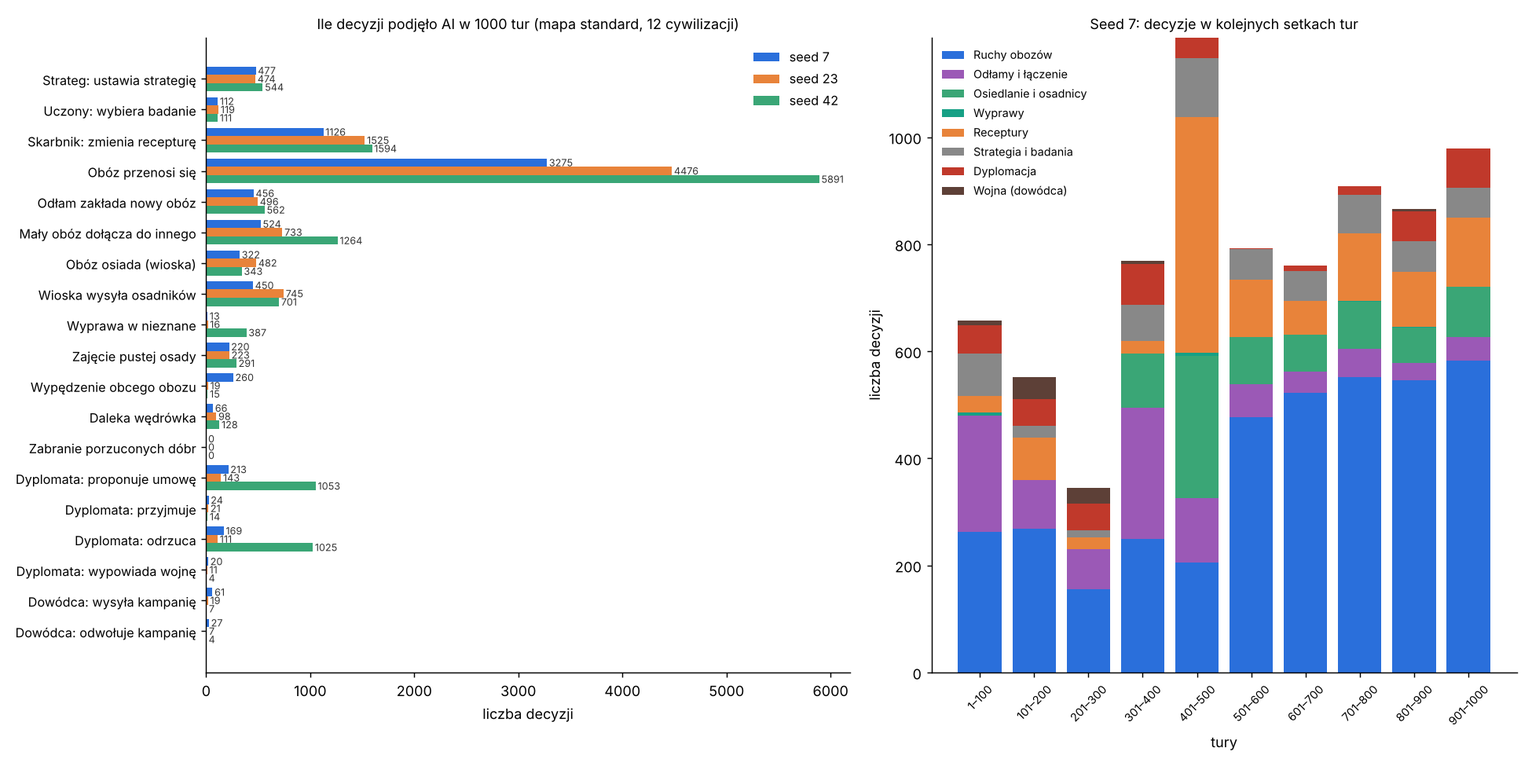
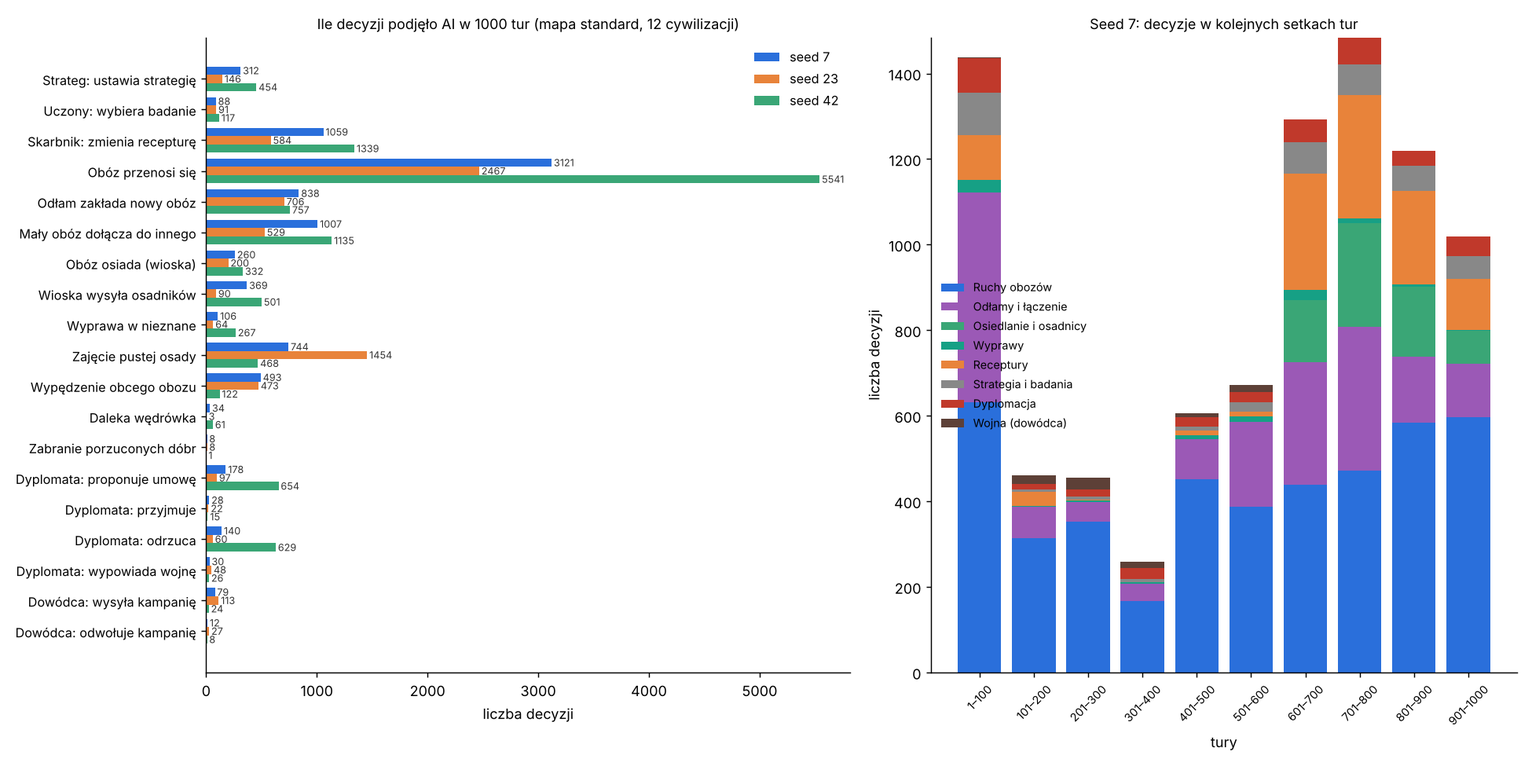
Stage 4f PR 1: docs, statistics, roadmap
ADR 0023, docs/systems/governments.md, the stage 4f plan, roadmap,
and docs/ai: government in the strategist, the pick, the diplomat and
the commander, parameters, assessment (revenge loop), statistics and
the decisions chart from 3 seeds.

Claude-Session: https://claude.ai/code/session_0138krcAfa8sT5jZ3xENZWS8

diff --git a/docs/ai/README.md b/docs/ai/README.md
@@ -4,7 +4,7 @@ Ten katalog opisuje **każdą decyzję**, którą podejmuje sztuczna inteligencj
 na podstawie jakich danych, według jakiego wzoru, z jakimi progami i gdzie to jest w kodzie. Jest pisany dla Patryka:
 żeby można było ocenić, czy mechanika nie jest za prosta albo za skomplikowana i bez sensu.
 
-**Stan opisu:** etap 4d + zegar świata (ADR 0018) + wartości i priorytety (PR B, ADR 0019) + ziemia i migracje (PR C) + fachy, ludzie i demografia (cały etap 4F) + wojna z celem i pokój z warunkami (etap 4e PR 1) + epizody i pierwszy dowódca (etap 4e PR 2) + armie z wielu osad, uzbrojenie i zaopatrzenie (etap 4e PR 3) + bitwy w rundach (etap 4e PR 4) + dowódca, który rozgrywa bitwę w głowie i co miesiąc patrzy jeszcze raz (etap 4e PR 5) + strojenie wojny (etap 4e PR 6, gałąź `feat/war-tuning`).
+**Stan opisu:** etap 4d + zegar świata (ADR 0018) + wartości i priorytety (PR B, ADR 0019) + ziemia i migracje (PR C) + fachy, ludzie i demografia (cały etap 4F) + wojna z celem i pokój z warunkami (etap 4e PR 1) + epizody i pierwszy dowódca (etap 4e PR 2) + armie z wielu osad, uzbrojenie i zaopatrzenie (etap 4e PR 3) + bitwy w rundach (etap 4e PR 4) + dowódca, który rozgrywa bitwę w głowie i co miesiąc patrzy jeszcze raz (etap 4e PR 5) + strojenie wojny (etap 4e PR 6) + ustroje (etap 4f PR 1, gałąź `feat/state-governments`).
 **Aktualizacja:** po każdym etapie, który zmienia AI (zasada w `CLAUDE.md`). Historia zmian jest na dole tej strony.
 
 ## Jak czytać
@@ -129,6 +129,7 @@ w `docs/systems/`:
 | 2026-11-06 | zegar (ADR 0018) | Rytm każdej cywilizacji: decyzje proaktywne we własnym kroku, reaktywne (alarmy wojny i napadu, propozycje, wybór badania) w każdym kroku świata; nowe reakcje D2 i G2; odstępy AI w własnych krokach (`reviewEverySteps`, `searchEverySteps`, `minStepsBetweenMoves`); zwiad, widzenie i pogłoski w własnym kroku; nowe statystyki, wykres rytmów i ludności przed/po. |
 | 2026-11-06 | wartości (PR B, ADR 0019) | Uczony od nowa (priorytet z położenia, braków i charakteru, koszt jako przeszkoda łagodzona ciekawością); skarbnik: cele towarów, koordynacja sieci, koniec przełączania „praca ↔ brak”, premia za handel; strateg: wagi nauki i wpływu; „zostać” z połową wagi ekspansji; obce obozy i wojownicy tylko z pól widzianych teraz; 11 liczb z kodu do `data/ai.json` (sekcja `scholar`); test martwych wartości; nowe statystyki z 3 seedów, wykresy decyzji i „przed/po”. |
 | 2026-11-06 | ziemia i migracje (PR C) | Gubernator wycenia ziemię z technologiami zbierania cywilizacji, rybacy liczą wodę; G4 osiedlenie dla prawdziwej liczby producentów i w porównaniu ze zbieractwem i ekspansywnością (`settleOverGatheringPercent`); nowe decyzje G7 (wioska wysyła osadników) i G8 (wyprawa w nieznane); osadnicy omijają strefy własnych osad; zwiad i marsz na stulecie (`data/perception.json`); nowe parametry w `data/ai.json`; punkty 4, 5, 6 i 8 oceny zamknięte, nowy punkt 10 (wydajność); statystyki z 3 seedów, wykres ziemi i migracji, wykres decyzji z G7 i G8. |
+| 2026-11-07 | ustroje (etap 4f, PR 1) | Ustrój z `data/governments.json` (rada starszych, wodzostwo; despotia i republika miejska od brązu) przechyla wagi celów stratega (S1), przesuwa ostrożność w wyborze opcji (wszyscy doradcy), zmienia tempo przeglądów stratega i dyplomaty i opóźnia decyzje państwowe: armie wypowiadającego wojnę ruszają po `enactYears` (K1), w czasie zmiany ustroju bez wypowiedzeń (D2). Nowe parametry w `07-parametry.md`, ocena i pętla odwetu w `08` (pkt 14), statystyki i wykres decyzji z 3 seedów. |
 | 2026-11-07 | strojenie wojny (etap 4e, PR 6) | K1: dowódca liczy jedzenie okolicy (osady do 12 pól od domu i od celu) na całą wyprawę. D1/D2: nowy czynnik „wynik wojny” (krzywa `warScore`: przegrywający chce pokoju), `peaceOpinion` przy −100 daje 0,5, odrzucony pokój wraca po roku (`peaceRetryYears`). Reguły zaopatrzenia: tragarze z osady z największym zapasem, szybsi i wcześniej, armia przy zbiórce je w domu. Statystyki i długi przebieg w `09-statystyki.md`. |
 | 2026-11-07 | dowódca (etap 4e, PR 5) | K1: spodziewana bitwa bez losowania (25 bitew w głowie, `Battles.Expect`) z tego, co widać, próg szansy 60% i strat 50%, jedzenie na marsz poza zasięgiem tragarzy tam i z powrotem; nowa decyzja K2: odwołanie kampanii co miesiąc (szansa poniżej 45% albo brak jedzenia na drogę); armia atakuje miesiąc po dojściu do celu; nowe czynniki `expected losses`, `cells beyond supply`; sekcja `commander` w `data/ai.json` (próg szansy i jedzenia przeniesione z `war.json`); sytuacja wojny w `DeadValueTests`. Statystyki w `09-statystyki.md`. |
 | 2026-11-07 | bitwy w rundach (etap 4e, PR 4) | Dowódca (K1) liczy szansę z premią terenu celu; na miejscu armia liczy ją jeszcze raz z rzeką i głodem. Bitwa sama jest regułą systemu (nie decyzją AI). Statystyki bitew w `09-statystyki.md`. |

diff --git a/docs/decisions/0023-ustroje.md b/docs/decisions/0023-ustroje.md
@@ -1,0 +1,48 @@
+# ADR 0023: Ustroje w danych, tytuł w nazwie i opóźnienie decyzji państwowych
+
+**Status:** proponowana, 2026-11-07 (PR 1 etapu 4f, według rekomendacji z dokumentu „Etap 4f: państwo — propozycja”; czeka na decyzje
+Patryka, zwłaszcza pytania 3 i 7, które zmieniają GDD 7.2). Zasady w GDD 7.2, 5.6 i 16.
+
+## Kontekst
+
+Cywilizacje nie miały ustroju. GDD 7.2 wymaga, żeby ustrój zmieniał tempo decyzji (opóźnienie wdrożenia i częstotliwość pracy
+doradców), impulsywność AI, sposób sukcesji, zdolność administracyjną i stabilność, a nazwa cywilizacji niosła tytuł ustroju
+(„Chiefdom of Karrut”). GDD 16 każe zrobić 3–4 ustroje z er 1–3, a napięcie społeczne wchłonąć w stabilność.
+
+## Decyzja
+
+- **Ustroje w danych:** `data/governments.json`, wczytywane i sprawdzane przy starcie (`ContentLoader.LoadGovernments`). Nowy ustrój
+  w kolejnych erach to tylko wpis w pliku. Dziś: rada starszych i wodzostwo (od epoki kamienia), despotia i republika miejska
+  (od epoki brązu, czyli od etapu 6).
+- **Stan:** `CivilizationState.Government` (indeks w danych) i zmiana w toku (`PendingGovernment`, `PendingGovernmentMonth`).
+  Zapis w formacie 26, hash, protokół w wersji 10 (tytuł i ustrój dla obserwatora).
+- **Start:** każdy lud dostaje ustrój, do którego ciągnie jego charakter: suma cecha × skłonność (`leaning`) z danych, remis wygrywa
+  pierwszy w pliku. Bez losowania, więc nic nie przesuwa strumieni.
+- **Tytuł:** `Governments.Title` składa wzór z danych z rdzeniem nazwy ludu. Rdzeń (`CivilizationState.Name`) się nie zmienia, więc
+  kronika dalej mówi „Karrut”; tytuł pokazują podgląd i raporty.
+- **Opóźnienie wdrożenia w latach** (`enactYears`), nie w turach: tura epoki kamienia trwa 50 lat, więc „4 tury” z GDD to 200 lat.
+  Działa na dwie decyzje państwowe, które dziś istnieją:
+  - **zmiana ustroju** (`ChangeGovernmentCommand`): nowy ustrój wchodzi po opóźnieniu obecnego (`GovernmentSystem` w fazie
+    State); do tego czasu cywilizacja nie wypowiada wojen ani nie zaczyna drugiej zmiany;
+  - **wypowiedzenie wojny** (`DeclareWarCommand`): wojna zaczyna się od razu (ofiara wie i może się bronić), ale armie strony,
+    która ją wypowiedziała, ruszają dopiero od `Treaty.ReadyMonth`. Zegar świata robi krok w tym miesiącu, a dowódca wtedy
+    planuje wyprawę. Cicha wojna (5 lat bez kampanii) liczy się od gotowości, nie od wypowiedzenia.
+- **Tempo AI:** `reviewPercent` skraca albo wydłuża odstęp przeglądów stratega i dyplomaty; `cautionShift` przesuwa ostrożność,
+  z którą AI bierze najlepszą opcję wprost (rada spokojniejsza, despotia bardziej impulsywna); `goalPercent` mnoży wagi celów
+  stratega (wodzostwo: ekspansja i podbój ×1,2).
+- **Później w etapie 4f:** stabilność, wpływ warstw, administracja i sukcesja (PR 2–4) dopiszą kolejne pola do tego samego pliku;
+  wybór ustroju przez stratega i zmiana po buncie (PR 4–5).
+
+## Rozważane alternatywy
+
+- **Ustroje w kodzie** (`enum` z wartościami): szybciej, ale łamie zasadę „zawartość w danych” i blokuje ustroje kolejnych er.
+- **Opóźnienie w turach** (jak w GDD): w erach 1–2 decyzja czekałaby 50–200 lat.
+- **Wojna wchodzi w życie dopiero po opóźnieniu** (najpierw zapowiedź): uczciwsze dla ofiary, ale potrzebuje nowego stanu
+  „zapowiedzianej wojny” w dyplomacji; obecne rozwiązanie daje ofierze ten sam czas na przygotowanie.
+- **Tytuł zapisany w stanie:** prościej czytać, ale tytuł trzeba by zmieniać przy każdej zmianie nazwy i ustroju.
+
+## Konsekwencje
+
+- Hash gry się zmienia (inne wagi celów, ostrożność i rytm przeglądów); test determinizmu i złoty hash świata zaktualizowane.
+- Nowe ustroje nie wymagają kodu; nowe skutki ustroju (stabilność, administracja) wymagają kodu raz, w PR 2–4.
+- Despotia i republika miejska czekają na technologie epoki brązu; sprawdzają je testy.

diff --git a/ROADMAP.md b/ROADMAP.md
@@ -135,7 +135,7 @@ strateg: waga nauki i wpływu; obce obozy tylko z pól widzianych teraz; liczby 
 osiedlenie porównane ze zbieractwem i ekspansywnością; wioska wysyła osadników, gdy jest pełna albo ma wyjałowione pola; wyprawy w nieznane
 dla ciekawych i ekspansywnych; zwiadowcy i marsz na stulecie; kolumny `settlements` i `spread_cells` w statystykach Headless).
 
-Gotowe też: **etap 4F** (ludzie i fachy, niżej, decyzja Patryka z 2026-11-06: przed wojną). Teraz: **4e** wojna (niżej, decyzje z 2026-11-07), potem **D** odłamy jako nowe cywilizacje w 4f.
+Gotowe też: **etap 4F** (ludzie i fachy, niżej, decyzja Patryka z 2026-11-06: przed wojną) i **4e** wojna (niżej, decyzje z 2026-11-07). Teraz: **4f** państwo (niżej), potem **4g** (100 gier i raport), a dopiero potem nowe ery (decyzja Patryka z 2026-11-07).
 Przeprowadzka całej wioski (z planu C) jeszcze nie: czeka na koszt porzucanych pól i budynków (etap budowli).
 
 - [ ] Doradcy: strateg, dyplomata, skarbnik, gubernatorzy, dowódca, uczony
@@ -174,6 +174,20 @@ morale i uzbrojenie z technologii, dowódca nie rusza na przegraną wojnę, a zm
 - [x] **PR 5:** AI: dowódca (spodziewany wynik bitwy z tego, co widzi, próg szansy w `data/ai.json`; zbiórka, marsz, atak, czekanie, odwrót, obrona co miesiąc kampanii); test martwych wartości; `docs/ai/`. Zrobione: bitwa w głowie bez losowania, droga i jedzenie, odwołanie co miesiąc (K2), atak miesiąc po dojściu. Czekanie i obrona armią: z wieloma armiami (PR 6 albo późniejsze ery)
 - [x] **PR 6:** strojenie i statystyki z 3 seedów (wojny, kampanie, bitwy, straty, zmęczenie), `docs/systems/war.md` z sekcją „Co erę”. Zrobione: zaopatrzenie (głód 42% → 23% miesięcy wypraw), jedzenie na całą wyprawę, czynnik „wynik wojny”, długi przebieg 10 000 tur; cicha wojna zostaje białym pokojem (decyzja Patryka 2026-11-07)
 - [ ] Po etapie 4e: susza, głód, epidemia i wyprawy odkrywców jako epizody (ADR 0022)
+
+## Etap 4f — Państwo: ustroje, przywódcy, stabilność, secesja (decyzja Patryka z 2026-11-07: przed nowymi erami)
+
+Zasady: GDD 7.2, 7.3, 7.5, 5.6; ADR 0023. Plan i pytania do decyzji: `docs/prompts/08-etap-4f-panstwo.md`
+(dokument „Etap 4f: państwo — propozycja” w Claude Docs).
+
+Gotowe, gdy: w 3 grach po 1000 tur cywilizacje mają ustroje i przywódców, stabilność spada przy zbyt dużym państwie, a dalekie osady
+odłączają się jako nowe cywilizacje z językiem rodzica i własnym tytułem.
+
+- [x] **PR 1:** ustroje w danych (`data/governments.json`: rada starszych i wodzostwo od startu, despotia i republika miejska od brązu), ustrój z charakteru na starcie, tytuł w nazwie („Chiefdom of Karrut”) w podglądzie i raporcie, opóźnienie decyzji w latach (zmiana ustroju, armie po wypowiedzeniu wojny), tempo i ostrożność AI; zapis w formacie 26, protokół 10 (`feat/state-governments`)
+- [ ] **PR 2:** przywódca z imieniem z języka ludu, wiekiem i cechami; starzenie, śmierć, sukcesja według ustroju; cechy przywódcy w charakterze
+- [ ] **PR 3:** stolica, administracja (koszt drogi od stolicy), stabilność 0–100 z nastroju ważonego wpływem warstw; niepokoje poniżej 30
+- [ ] **PR 4:** bunty poniżej 15: przewrót w rdzeniu albo secesja dalekich osad jako nowa cywilizacja (język z mutacją, własny ustrój i tytuł)
+- [ ] **PR 5:** AI państwa (wybór ustroju, reakcja na niską stabilność), pętla odwetu (wojna co 50 lat z tym samym sąsiadem), test martwych wartości, `docs/ai/`, statystyki z 3 seedów
 
 ## Etap 5 — Lepszy podgląd: warstwy, grafiki zastępcze, menu startowe (decyzja Patryka z 2026-11-06)
 

diff --git a/docs/systems/governments.md b/docs/systems/governments.md
@@ -1,0 +1,62 @@
+# Ustroje
+
+**W jednym zdaniu:** każda cywilizacja ma ustrój z danych, który daje jej tytuł („Chiefdom of Karrut”), opóźnia decyzje państwowe
+i zmienia tempo oraz charakter decyzji AI (GDD 7.2; etap 4f, ADR 0023).
+
+**Faza tury:** State (`GovernmentSystem`: wchodzą zmiany ustroju, które dojrzały); skutki w fazie Decisions (strateg, dyplomata,
+dowódca, wybór opcji) i przy komendach (wypowiedzenie wojny, wysłanie wyprawy).
+
+## Dane wejściowe i wyjściowe
+
+- Czyta: `data/governments.json`, cechy charakteru (start), erę cywilizacji (które ustroje są otwarte), miesiąc gry.
+- Zmienia: `CivilizationState.Government`, `PendingGovernment`, `PendingGovernmentMonth`; `Treaty.ReadyMonth` przy wypowiedzeniu wojny.
+- Publikuje w migawce: dla obserwatora tytuł i nazwę ustroju każdej cywilizacji (`CivilizationView.Title`, `Government`;
+  szczegóły śledzonej cywilizacji). Podgląd pokazuje tytuł w tabeli cywilizacji i ustrój w panelu.
+
+## Przepływ
+
+```mermaid
+flowchart LR
+  D[data/governments.json] --> S[Start gry: ustrój z charakteru]
+  S --> G[Ustrój cywilizacji]
+  G --> T[Tytuł w podglądzie i raportach]
+  G --> A[AI: wagi celów, ostrożność, odstęp przeglądów]
+  G --> E[Opóźnienie decyzji]
+  C[ChangeGovernmentCommand] --> P[Zmiana w toku] --> GS[GovernmentSystem: po opóźnieniu] --> G
+  W[DeclareWarCommand] --> R[Wojna: armie gotowe po opóźnieniu] --> K[Dowódca planuje wyprawę]
+```
+
+## Zasady i wzory
+
+- **Start (GDD 7.2):** wygrywa ustrój otwarty w erze 1 z największą sumą `cecha × leaning`; remis: pierwszy w pliku.
+- **Tytuł:** wzór `title` z `{people}` zamienionym na rdzeń nazwy ludu. Kronika używa samego rdzenia.
+- **Opóźnienie wdrożenia:** `enactYears × 12` miesięcy obecnego ustroju.
+  - Zmiana ustroju: nowy wchodzi po opóźnieniu (od razu, gdy opóźnienie 0). W tym czasie bez wojen i bez drugiej zmiany.
+  - Wypowiedzenie wojny: armie strony wypowiadającej ruszają od `ReadyMonth = miesiąc + opóźnienie`; obrońca od razu. Cicha wojna
+    liczy 5 lat od `QuietSince` = najpóźniejsze z: wypowiedzenie, gotowość, ostatnia kampania.
+- **Tempo AI:**
+  - strateg: przegląd co `reviewEverySteps × reviewPercent / 100` własnych kroków;
+  - dyplomata: przegląd co `reviewEveryYears × reviewPercent / 100` lat;
+  - wybór opcji: najlepsza wprost z szansą `ostrożność + cautionShift` (0–1000);
+  - wagi celów stratega razy `goalPercent / 100`.
+
+| Ustrój | Od | Wdrożenie | Przeglądy | Ostrożność | Wagi celów |
+| --- | --- | --- | --- | --- | --- |
+| Rada starszych | epoka kamienia | 4 lata | 150% | +200‰ | bezpieczeństwo ×1,1 |
+| Wodzostwo | epoka kamienia | 1 rok | 75% | 0 | ekspansja i podbój ×1,2 |
+| Despotia | epoka brązu | 0 | 50% | −200‰ | podbój ×1,2, bezpieczeństwo ×1,1 |
+| Republika miejska | epoka brązu | 2 lata | 100% | +100‰ | dobrobyt i nauka ×1,2, podbój ×0,9 |
+
+## Pliki danych
+
+`data/governments.json` (opis pól w `comment`). Ery w `fromEra` to klucze z `data/eras.json`.
+
+## Testy
+
+`tests/CivSim.Tests/Governance/GovernmentTests.cs`: ustroje w danych, start z charakteru (w grze z 12 cywilizacjami występują oba),
+tytuł, zmiana po opóźnieniu i blokada wojny w tym czasie, armie czekają na gotowość wojny (obrońca nie), ostrożność i tempo,
+zapis, odrzucanie złych danych. Złoty hash świata i test determinizmu zaktualizowane.
+
+## Wydajność
+
+Ustrój to kilka odczytów tablicy na decyzję; bez alokacji w pętli tury. Pomiar w opisie PR 1 etapu 4f.

diff --git a/docs/prompts/08-etap-4f-panstwo.md b/docs/prompts/08-etap-4f-panstwo.md
@@ -1,0 +1,40 @@
+# Etap 4f: państwo — plan
+
+Propozycja dla Patryka z 2026-11-07: dokument „Etap 4f: państwo — propozycja” w Claude Docs
+(https://claude.ai/artifact/MMaSwUrRaWgSDmoXUrPCGn). Patryk wybrał 2026-11-07 „najpierw 4f i 4g, potem nowe ery”. Zasady: GDD 7.2,
+7.3, 7.5, 5.6; ADR 0023. Etap w `ROADMAP.md`.
+
+## Pytania do decyzji (rekomendacje; PR 1 zrobiony według nich, czeka na decyzje)
+
+| # | Pytanie | Rekomendacja |
+| --- | --- | --- |
+| 1 | Które ustroje teraz? | Rada starszych i wodzostwo od razu; despotia i republika miejska w danych od epoki brązu. |
+| 2 | Ustrój na starcie? | Z charakteru: agresja i ekspansywność → wodzostwo, ostrożność i otwartość → rada starszych. |
+| 3 | Opóźnienie w turach czy w latach? | W latach (0, 1, 2, 4); zmiana GDD 7.2, wymaga zgody. |
+| 4 | Na co działa opóźnienie? | Zmiana ustroju i wypowiedzenie wojny (armie czekają). |
+| 5 | Kiedy ustrój się zmienia? | Strateg (rzadko, z histerezą) albo bunt; bezkrólewie 2 lata. |
+| 6 | Stolica? | Osada przywódcy: pierwszy obóz, potem największa osada. |
+| 7 | Wpływ warstw w stabilności? | Zależny od ustroju; nastrój warstwy = nastrój osady (zmiana GDD 7.3, wymaga zgody). |
+| 8 | Nowe państwo po secesji? | Nowa cywilizacja: język z mutacją, inny ustrój, przesunięty charakter, kopia technologii i mapy; wojna tylko z decyzji dyplomaty. |
+| 9 | Cechy przywódcy? | 6 cech z GDD 7.5, każda przesuwa 1–2 cechy charakteru o 0,2. |
+
+## PR-y
+
+1. **Ustroje** (`feat/state-governments`). Zrobione: `data/governments.json`, `Core.Governance.Governments`, `ChangeGovernmentCommand`,
+   `GovernmentSystem` (faza State), `Treaty.ReadyMonth`, tytuł dla obserwatora (protokół 10), zapis 26, `governments:` w Headless,
+   `docs/systems/governments.md`, ADR 0023, `docs/ai/`.
+2. **Przywódca i sukcesja:** strumień `Leaders` (już istnieje, dziś losuje charakter), imię z `NameLanguage`, wiek, cechy, śmierć,
+   sukcesja według pola ustroju, cechy przywódcy dodawane do charakteru (osobno od cech ludu, żeby zmiana władcy była skokowa).
+3. **Stolica, administracja, stabilność:** faza State; koszt drogi przez `HexGlobe` i koszty ruchu biomów; wpływ warstw w danych ustroju;
+   stabilność w stanie cywilizacji (zapis, hash, podgląd); niepokoje jako efekt z `data/effects.json`.
+4. **Bunty i secesja:** nowe `CivilizationState` w trakcie gry (id = następny wolny, limit 64 z bitów w `DiplomacySystem`), przeniesienie
+   osad, relacje i wspomnienie secesji, `NameLanguage.Mutate`, przewrót (nowy przywódca, ustrój, bezkrólewie).
+5. **AI państwa i strojenie:** wybór ustroju przez stratega, reakcje na stabilność, pętla odwetu (gaśnięcie urazu po wojnie, koszt
+   zerwania rozejmu), `DeadValueTests`, `docs/ai/`, statystyki z 3 seedów.
+
+## Pułapki
+
+- Determinizm: nowe cywilizacje w środku gry muszą dostać id i kolejność iteracji niezależną od słowników; losowanie tylko na strumieniach
+  `Leaders` (przywódcy) i nowym strumieniu dla buntów.
+- Tablice na cywilizację (np. bitmaski wspólnego wroga, `SeenYear`, tablice per cywilizacja w Headless) muszą rosnąć przy secesji.
+- Tytuł liczony z danych, nie zapisywany: kronika używa rdzenia nazwy.

diff --git a/docs/ai/08-ocena-i-uwagi.md b/docs/ai/08-ocena-i-uwagi.md
@@ -23,6 +23,7 @@ zmienia zasady gry, więc decydujesz Ty. **Stan: po PR C (ziemia i migracje)**; 
 | Wyprawy (G8) | **nowe, rzadkie** | 8–97 na grę; zależą od ciekawości i ekspansywności |
 | Rytm decyzji | **dobre (od ADR 0018, PR C)** | każda cywilizacja w rytmie swojej ery, reakcje poza rytmem; zwiad i marsz obozu na stulecie |
 | Wydajność | **do pilnowania (PR C)** | 3–4× więcej osad; stare systemy porównują każdą osadę z każdą (patrz pkt 10) |
+| Ustroje (etap 4f, PR 1) | **proste, na start** | ustrój przechyla wagi, ostrożność i tempo; AI jeszcze go nie zmienia sama (PR 5); pętla odwetu widoczniejsza (pkt 14) |
 
 ## 1. Wagi i cechy, które nic nie zmieniają (zamknięte w PR B)
 
@@ -230,6 +231,21 @@ gdy ma rolnika, a rolnictwo rozchodzi się z mistrzami, nie od razu do wszystkic
   Patryka: tak zostaje), więc zwycięstwa rzadko coś dają poza łupami. Do przemyślenia przy kolejnych erach: wojny o ziemię są rzadkie.
 - **Co może być zbędne:** próg strat `maxLossPercent` 50 rzadko decyduje sam, bo przy szansie ≥ 60% straty są zwykle małe; zostaje,
   bo test martwych wartości pokazuje, że zmienia decyzje, i będzie ważniejszy z murami i lepszą bronią obrońców.
+
+## 14. Ustroje i pętla odwetu (etap 4f, PR 1)
+
+- **Co działa:** ustrój z danych zmienia cztery rzeczy naraz: wagi celów stratega, ostrożność przy wyborze, tempo przeglądów
+  stratega i dyplomaty i opóźnienie decyzji państwowych (wojna, zmiana ustroju). W 3 grach oba ustroje występują (6–7 wodzostw,
+  3–7 rad starszych na 10–12 żywych cywilizacji). Rada starszych wypowiada wojnę, ale jej armie czekają 4 lata.
+- **Co jest za proste:**
+  - ustrój dobiera się raz, z charakteru, na starcie; AI go nie zmienia (wybór ustroju przez stratega: PR 5, po buncie: PR 4);
+  - przechylenie wag działa tylko tam, gdzie opcje służą różnym celom (jak każda waga celu, pkt 1); wodzostwo częściej wybiera wojnę,
+    bo wojna jest porównywana ze stałym progiem `declareWarAbove`.
+- **Pętla odwetu (stary problem, teraz wyraźniejszy):** jedna cywilizacja wypowiada wojnę o odwet temu samemu sąsiadowi w każdym swoim
+  kroku (co 50 lat), łamiąc rozejm; po kampanii przychodzi cisza i biały pokój, a uraz zostaje. Seed 23: 47 z 48 wojen wypowiedziała
+  cywilizacja 10 (wodzostwo); seed 7: 23 z 30 cywilizacja 0; seed 42: 11 z 26. W PR 6 bez ustrojów było podobnie, tylko rzadziej
+  (seed 7: 32 wojny, 25 z zerwaniem umowy). Do strojenia w PR 5 etapu 4f: odwet powinien gasnąć po wojnie, a zerwanie rozejmu
+  kosztować więcej.
 
 ## Decyzje Patryka (2026-11-06)
 

diff --git a/docs/ai/09-statystyki.md b/docs/ai/09-statystyki.md
@@ -2,8 +2,8 @@
 
 [← spis treści](README.md)
 
-Trzy gry bez grafiki: mapa standard (256×160), 12 cywilizacji, 1000 kroków świata (ok. 27–29 tys. lat), seedy 7, 23 i 42,
-etap 4e PR 1 (gałąź `feat/war-goals`: wojna z celem, pokój z warunkami). Wykres decyzji jest z tych gier. Tabela liczby decyzji niżej
+Trzy gry bez grafiki: mapa standard (256×160), 12 cywilizacji, 1000 kroków świata, seedy 7, 23 i 42. Wykres decyzji jest z etapu 4f PR 1
+(gałąź `feat/state-governments`, ustroje); sekcje niżej mówią, z którego etapu są ich liczby. Tabela liczby decyzji niżej
 jest jeszcze z końca etapu 4F (`feat/demography`; w nawiasach liczby po PR 3, commit `f993e4d`); po PR 1 liczba decyzji zmieniła się o mniej
 niż 10% (4900–8000 na grę).
 Polecenie:
@@ -15,6 +15,22 @@ dotnet run --project src/CivSim.Headless -c Release -- --seed 7 --turns 1000 --m
 Wykres: `python3 docs/ai/tools/decisions_chart.py <katalog z why7.csv, why23.csv, why42.csv>` (potrzebuje matplotlib).
 
 ![Ile decyzji podjęło AI](img/decyzje_1000_tur.png)
+
+## Ustroje (etap 4f, PR 1)
+
+3 seedy, mapa standard, 1000 kroków świata, gałąź `feat/state-governments`. Wykres decyzji wyżej jest z tych gier. W nawiasach PR 6.
+
+| Seed | Lata gry | Ustroje na końcu (żywe) | Wojny | Z zerwaniem umowy | Najczęstszy agresor | Kampanie | Pokój z okupem |
+| --- | ---: | --- | ---: | ---: | --- | ---: | ---: |
+| 7 | 16 000 (21 100) | 7 wodzostw, 3 rady | 30 (32) | 21 (25) | cywilizacja 0: 23 wojny | 79 | 5 |
+| 23 | 8 901 (27 625) | 7 rad, 5 wodzostw | 48 (5) | 42 (0) | cywilizacja 10: 47 wojen | 113 | 8 |
+| 42 | 21 200 (25 700) | 6 wodzostw, 5 rad | 26 (10) | 18 (6) | cywilizacja 5: 11 wojen | 24 | 1 |
+
+- **Mniej lat w 1000 krokach:** wojny i gotowość armii dodają kroki świata (miesiąc po miesiącu), więc 1000 kroków obejmuje mniej lat.
+  Na rok gry gra liczy się podobnie jak w PR 6 (seed 7: +9%, seed 42: +2%), poza seedem 23, gdzie trwa pętla odwetu (+43%).
+- **Pętla odwetu** opisana w [ocenie, pkt 14](08-ocena-i-uwagi.md#14-ustroje-i-pętla-odwetu-etap-4f-pr-1): jedna cywilizacja co 50 lat
+  wypowiada wojnę temu samemu sąsiadowi. Była i wcześniej; wodzostwo (podbój ×1,2, częstsze przeglądy) ją wzmacnia.
+- **Decyzji** jest 7 200–12 500 na grę (wcześniej 4 900–8 000 w 4e PR 1): więcej kampanii i ruchów obozów w dłuższych wojnach.
 
 ## Strojenie wojny (etap 4e, PR 6)
 

diff --git a/docs/ai/07-parametry.md b/docs/ai/07-parametry.md
@@ -154,6 +154,19 @@ w zapisanych sytuacjach z gier. Parametr, który niczego nie zmienia, wywala tes
 `data/eras.json` (od 4e PR 3): `armyLimit` 50 (najwięcej wojowników w armii jednego wodza) i `troopsPerCell` 50 (wojownicy na polu; większa armia
 stoi na kilku polach, front). Dowódca nie zbiera więcej niż `armyLimit`.
 
+## `data/governments.json` (od etapu 4f)
+
+Każdy ustrój ma te same pola; wartości w [opisie systemu](../systems/governments.md). Dziś działają rada starszych i wodzostwo,
+despotia i republika miejska czekają na epokę brązu.
+
+| Parametr | Rada starszych | Wodzostwo | Jednostka | Decyzje | Znaczenie |
+| --- | ---: | ---: | --- | --- | --- |
+| `enactYears` | 4 | 1 | lata | K1, D2 | po tylu latach armie ruszają na wypowiedzianą wojnę i wchodzi nowy ustrój; w tym czasie bez wypowiedzeń wojny |
+| `reviewPercent` | 150 | 75 | % odstępu | S1, D2 | tempo przeglądów stratega i dyplomaty |
+| `cautionShift` | +200 | 0 | ‰ ostrożności | wszystkie z wyborem | jak często AI bierze najlepszą opcję wprost |
+| `goalPercent` | bezpieczeństwo 110 | ekspansja 120, podbój 120 | % wagi | S1 (i przez wagi wszystkie) | przechylenie wag celów |
+| `leaning` | ostrożność 1, otwartość 1 | agresja 1, ekspansywność 1 | waga cechy | start gry | który ustrój lud dostaje na start |
+
 ## `data/skills.json` (od etapu 4F)
 
 | Parametr | Wartość | Na co wpływa w AI |

diff --git a/docs/ai/02-strateg.md b/docs/ai/02-strateg.md
@@ -19,6 +19,9 @@ erze niż przy ostatnim przeglądzie**. Pierwszy przegląd: pierwszy krok (wszys
 Miesiąc przeglądu = teraz + kroki × rytm jej ery. W epoce kamienia 15 kroków = 750 lat, w neolicie 375 lat, w brązie 300 lat,
 niezależnie od tego, w jakiej erze są inni.
 
+**Ustrój zmienia tempo** (etap 4f, GDD 7.2): liczba kroków to `reviewEverySteps × reviewPercent / 100` z `data/governments.json`
+(rada starszych 150% = 22 kroki, wodzostwo 75% = 11 kroków).
+
 Strateg działa **po gubernatorze**, więc nowe wagi obowiązują od następnego własnego kroku.
 
 ### Dane wejściowe
@@ -51,6 +54,11 @@ technologie więcej → nauka 1250. Spotkane 2 cywilizacje → wpływ 1150. Licz
 nic o pozostałych).
 
 Charakter **nie** wpływa na wagi stratega. Wpływa osobno, jako mnożnik w ocenie każdego działania.
+
+**Ustrój przechyla wagi** (etap 4f): po policzeniu każda waga jest mnożona przez `goalPercent / 100` ustroju
+(`Governments.Weight`). Wodzostwo: ekspansja i podbój ×1,2; rada starszych: bezpieczeństwo ×1,1; despotia: podbój ×1,2 i
+bezpieczeństwo ×1,1; republika miejska: dobrobyt i nauka ×1,2, podbój ×0,9. Przykład: wodzostwo z obozami pełnymi w 70% ma
+ekspansję 1300 × 1,2 = 1560, a podbój 1200 zamiast 1000.
 
 ### Cel ekspansji
 

diff --git a/docs/ai/01-wspolne-mechanizmy.md b/docs/ai/01-wspolne-mechanizmy.md
@@ -55,7 +55,9 @@ Kod: `src/CivSim.Core/Ai/Utility/Chooser.cs`, `src/CivSim.Core/Ai/Advisor.cs:72`
 2. Wybór trzyma **3 najlepsze** działania z oceną **większą od zera** (`pickAmongTop: 3` w `data/ai.json`). Przy remisie zostaje
    działanie ocenione wcześniej.
 3. Losowanie:
-   - z szansą równą **ostrożności** cywilizacji (cecha 0–1000, czyli 0–100%) bierze **najlepsze**;
+   - z szansą równą **ostrożności** cywilizacji (cecha 0–1000, czyli 0–100%) bierze **najlepsze**; od etapu 4f ostrożność
+     przesuwa ustrój (`cautionShift` w `data/governments.json`: rada starszych +200‰, despotia −200‰, wynik w 0–1000,
+     `Governments.Caution`);
    - w przeciwnym razie losuje spośród zatrzymanych z wagami proporcjonalnymi do ocen:
      `waga_k = max(1, ocena_k × 1000 / ocena_najlepszego)`.
    - Szansa, że wygra najlepsze: `P = ostrożność + (1 − ostrożność) × waga₁ / Σ wag`.

diff --git a/docs/ai/10-dyplomata.md b/docs/ai/10-dyplomata.md
@@ -81,6 +81,8 @@ osada), w innym razie **odwet**. Wojny o łupy dyplomata sam nie wypowiada (to d
 
 ## D2: Przegląd stosunków (proaktywny)
 
+- **Ustrój** (etap 4f): odstęp przeglądów razy `reviewPercent / 100` (rada starszych co 75 lat, wodzostwo co 37,5 roku). W czasie
+  zmiany ustroju cywilizacja nie wypowiada wojen (`CannotDeclareWar`: „We are changing our government.”).
 - **Kiedy (proaktywnie):** raz na 50 lat (`reviewEveryYears`), rozłożone między cywilizacje, we własnym kroku: gdy
   `(miesiąc + 84 × numer cywilizacji) mod 600 < długość jej kroku w miesiącach` (84 miesiące = 7 lat, `reviewStaggerYears`). W epoce kamienia (krok 50 lat) więc w **każdym
   własnym kroku**; w neolicie co drugim; przy krokach półrocznych w jednym ze 100 (od ADR 0018 bez powtórek w roku przeglądu).
